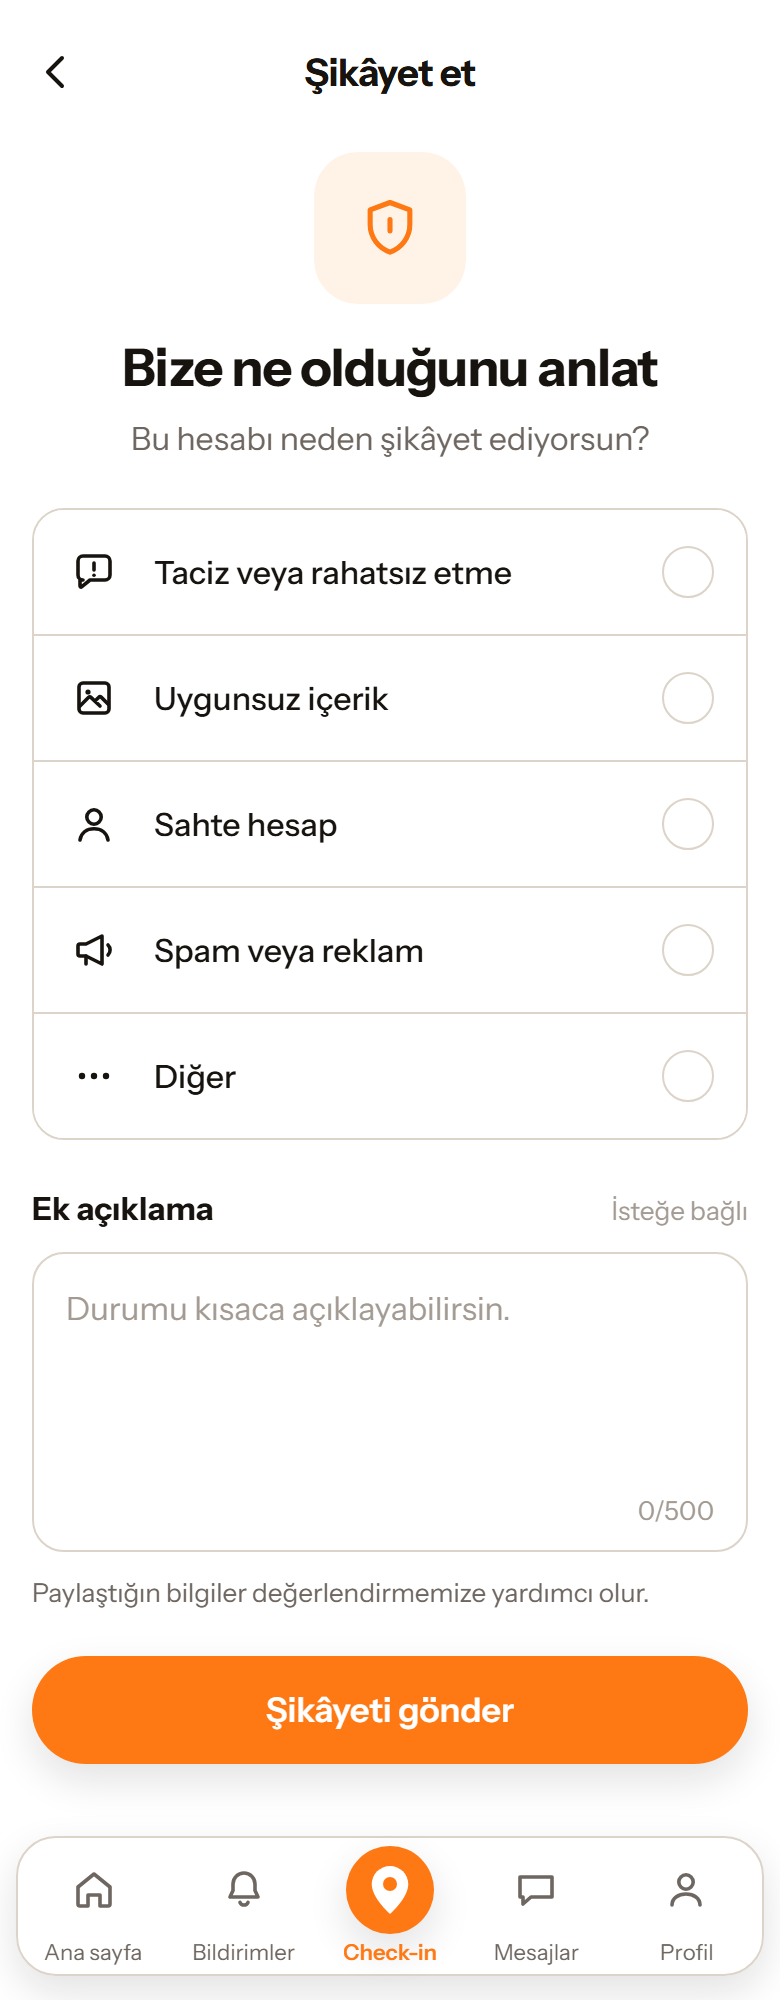
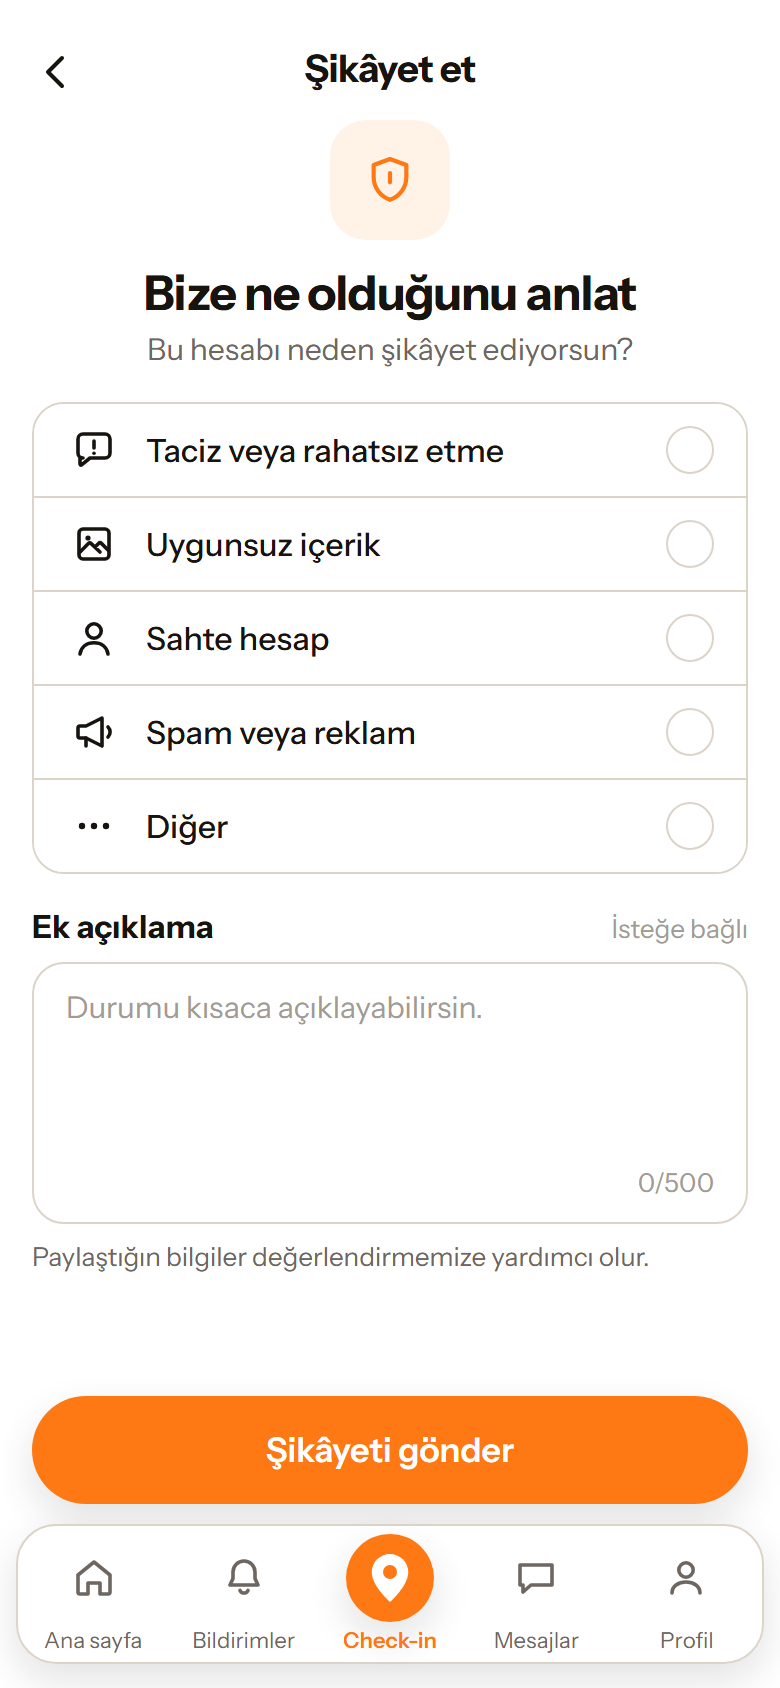
tasarim(sikayet): iki ekran kaydirmasiz - oldugu alana sigar (kullanicinin istegi); ekran-goruntusu araci SLOOIN_SAHTE_RPC
Claude-Session: https://claude.ai/code/session_01RjY8tEzWLikQVQRQ8oiY7b

diff --git a/mobil/src/app/sikayet.tsx b/mobil/src/app/sikayet.tsx
@@ -1,5 +1,5 @@
 import { useState, type ReactNode } from 'react'
-import { View, Text, TextInput, Pressable, ScrollView, StyleSheet } from 'react-native'
+import { View, Text, TextInput, Pressable, StyleSheet } from 'react-native'
 import { useRouter, useLocalSearchParams } from 'expo-router'
 import { useSafeAreaInsets } from 'react-native-safe-area-context'
 import { sikayetGonder, SIKAYET_SEBEPLERI, type SikayetHedefTuru } from '../../lib/sikayet'
@@ -117,9 +117,11 @@ export default function SikayetEkrani() {
           </Pressable>
         </View>
 
-        <ScrollView contentContainerStyle={stiller.teyitIcerik} showsVerticalScrollIndicator={false}>
+        {/* KAYDIRMASIZ (kullanicinin istegi 2026-09-18): rozet, metin ve
+            kart dikeyde ortalanir; Tamam altta, gezinme cubugunun ustunde. */}
+        <View style={stiller.teyitIcerik}>
           <View style={stiller.buyukRozet}>
-            <KalkanTikIkonu boyut={104} />
+            <KalkanTikIkonu boyut={84} />
           </View>
           <Text style={stiller.teyitBaslik}>{t('sikayet.alindi')}</Text>
           <Text style={stiller.teyitMetni}>{t('sikayet.tesekkur')}</Text>
@@ -154,11 +156,11 @@ export default function SikayetEkrani() {
           )}
 
           {hata && <Text style={stiller.hata}>{hata}</Text>}
-        </ScrollView>
+        </View>
 
-        <View style={[stiller.altButonAlani, { paddingBottom: Math.max(guvenliAlan.bottom, bosluk.l) }]}>
+        <View style={[stiller.altButonAlani, { paddingBottom: ALT_GEZINME_PAYI }]}>
           <Pressable
-            style={({ pressed }) => [stiller.birincil, pressed && stiller.birincilBasili]}
+            style={({ pressed }) => [stiller.birincil, stiller.birincilTeyit, pressed && stiller.birincilBasili]}
             onPress={() => router.back()}
             accessibilityRole="button"
             testID="sikayet-tamam"
@@ -209,13 +211,13 @@ export default function SikayetEkrani() {
         </Text>
       </View>
 
-      <ScrollView
-        contentContainerStyle={stiller.icerik}
-        keyboardShouldPersistTaps="handled"
-        showsVerticalScrollIndicator={false}
-      >
+      {/* KAYDIRMASIZ (kullanicinin istegi 2026-09-18: "asagi kaydirmaya
+          gerek kalmadan oldugu alana sigdir"): ScrollView yok; dikey
+          boslular sikilastirildi, aciklama kutusu kalan yeri dolduruyor
+          (flex), dugme en altta gezinme cubugunun ustunde. */}
+      <View style={stiller.icerik}>
         <View style={stiller.rozet}>
-          <KalkanIkonu boyut={34} />
+          <KalkanIkonu boyut={28} />
         </View>
         <Text style={stiller.kahramanBaslik}>{t('sikayet.kahramanBaslik')}</Text>
         <Text style={stiller.kahramanAlt}>
@@ -284,8 +286,9 @@ export default function SikayetEkrani() {
 
         {hata && <Text style={stiller.hata}>{hata}</Text>}
 
+        <View style={stiller.esnekBosluk} />
         <Pressable
-          style={({ pressed }) => [stiller.birincil, pressed && stiller.birincilBasili]}
+          style={({ pressed }) => [stiller.birincil, stiller.birincilAltta, pressed && stiller.birincilBasili]}
           onPress={gonder}
           disabled={gonderiliyor}
           accessibilityRole="button"
@@ -295,7 +298,7 @@ export default function SikayetEkrani() {
             {gonderiliyor ? t('ortak.gonderiliyor') : t('sikayet.gonder')}
           </Text>
         </Pressable>
-      </ScrollView>
+      </View>
     </View>
   )
 }
@@ -303,15 +306,17 @@ export default function SikayetEkrani() {
 const stilleriYap = (renk: Renk) => StyleSheet.create({
   kok: { flex: 1, backgroundColor: renk.zemin },
   icerik: {
+    flex: 1,
     paddingHorizontal: bosluk.sayfa,
     paddingBottom: ALT_GEZINME_PAYI,
   },
+  esnekBosluk: { flexGrow: 1, minHeight: bosluk.s },
+  birincilAltta: { marginTop: bosluk.m },
 
   // Ust cubuk: ok solda, baslik mutlak konumla ortada.
   ustCubuk: {
-    height: 48,
+    height: 44,
     justifyContent: 'center',
-    marginBottom: bosluk.s,
   },
   geriDugmesi: {
     position: 'absolute',
@@ -331,30 +336,30 @@ const stilleriYap = (renk: Renk) => StyleSheet.create({
   // Kahraman: rozet + baslik + alt baslik, ortali.
   rozet: {
     alignSelf: 'center',
-    width: 76,
-    height: 76,
-    borderRadius: 22,
+    width: 60,
+    height: 60,
+    borderRadius: 18,
     backgroundColor: renk.turuncuZemin,
     alignItems: 'center',
     justifyContent: 'center',
-    marginTop: bosluk.s,
-    marginBottom: bosluk.l,
+    marginTop: bosluk.xs,
+    marginBottom: bosluk.m,
   },
   kahramanBaslik: {
     textAlign: 'center',
     fontFamily: yazi.ekranBasligi,
-    fontSize: olcek.baslik,
+    fontSize: olcek.baslik - 2,
     color: renk.metin,
     letterSpacing: -0.5,
   },
   kahramanAlt: {
     textAlign: 'center',
     fontFamily: yazi.govde,
-    fontSize: olcek.govde + 1,
-    lineHeight: 22,
+    fontSize: olcek.govde,
+    lineHeight: 20,
     color: renk.metinIkincil,
-    marginTop: bosluk.s,
-    marginBottom: bosluk.xl,
+    marginTop: bosluk.xs,
+    marginBottom: bosluk.l,
   },
   baglamBildirimi: {
     textAlign: 'center',
@@ -362,8 +367,8 @@ const stilleriYap = (renk: Renk) => StyleSheet.create({
     fontSize: olcek.kucuk,
     lineHeight: 18,
     color: renk.metinIkincil,
-    marginTop: -bosluk.m,
-    marginBottom: bosluk.xl,
+    marginTop: -bosluk.s,
+    marginBottom: bosluk.l,
   },
 
   // Sebep karti: tek cerceve, satirlar ayirici cizgiyle.
@@ -377,9 +382,9 @@ const stilleriYap = (renk: Renk) => StyleSheet.create({
   sebepSatiri: {
     flexDirection: 'row',
     alignItems: 'center',
-    gap: bosluk.l,
+    gap: bosluk.m,
     paddingHorizontal: bosluk.l,
-    paddingVertical: 18,
+    paddingVertical: 11,
     backgroundColor: renk.yuzey,
   },
   sebepSatiriAyirici: { borderBottomWidth: 1, borderBottomColor: renk.cizgi },
@@ -394,9 +399,9 @@ const stilleriYap = (renk: Renk) => StyleSheet.create({
   // Radyo: bos halde ince gri halka; secili halde turuncu dolu, icinde
   // beyaz halka (referans).
   radyo: {
-    width: 26,
-    height: 26,
-    borderRadius: 13,
+    width: 24,
+    height: 24,
+    borderRadius: 12,
     borderWidth: 1.5,
     borderColor: renk.cizgi,
     alignItems: 'center',
@@ -404,9 +409,9 @@ const stilleriYap = (renk: Renk) => StyleSheet.create({
   },
   radyoSecili: { borderColor: renk.turuncu, backgroundColor: renk.turuncu },
   radyoIc: {
-    width: 20,
-    height: 20,
-    borderRadius: 10,
+    width: 18,
+    height: 18,
+    borderRadius: 9,
     borderWidth: 2.5,
     borderColor: '#FFFFFF',
   },
@@ -416,8 +421,8 @@ const stilleriYap = (renk: Renk) => StyleSheet.create({
     flexDirection: 'row',
     alignItems: 'baseline',
     justifyContent: 'space-between',
-    marginTop: bosluk.xl,
-    marginBottom: bosluk.m,
+    marginTop: bosluk.l,
+    marginBottom: bosluk.s,
   },
   etiket: {
     fontFamily: yazi.ekranBasligi,
@@ -434,19 +439,21 @@ const stilleriYap = (renk: Renk) => StyleSheet.create({
     borderColor: renk.cizgi,
     borderRadius: yuvarlak.kart,
     backgroundColor: renk.yuzey,
-    minHeight: 150,
+    // Kalan dikey alani kutu dolduruyor; en az iki satir.
+    flexGrow: 1,
+    flexShrink: 1,
+    minHeight: 72,
     paddingHorizontal: bosluk.l,
-    paddingTop: bosluk.l,
-    paddingBottom: 30,
+    paddingTop: bosluk.m,
+    paddingBottom: 26,
   },
   girdi: {
     flex: 1,
     fontFamily: yazi.govde,
-    fontSize: olcek.govde + 1,
-    lineHeight: 22,
+    fontSize: olcek.govde,
+    lineHeight: 20,
     color: renk.metin,
     padding: 0,
-    minHeight: 96,
   },
   sayac: {
     position: 'absolute',
@@ -460,14 +467,14 @@ const stilleriYap = (renk: Renk) => StyleSheet.create({
     fontFamily: yazi.govde,
     fontSize: olcek.kucuk,
     color: renk.metinIkincil,
-    marginTop: bosluk.m,
+    marginTop: bosluk.s,
   },
   hata: {
     fontFamily: yazi.govdeOrta,
     fontSize: olcek.kucuk,
     color: renk.yikici,
     textAlign: 'center',
-    marginTop: bosluk.l,
+    marginTop: bosluk.s,
   },
 
   // Birincil dugme (iki ekranda da ayni).
@@ -488,41 +495,42 @@ const stilleriYap = (renk: Renk) => StyleSheet.create({
 
   // 02 / Gonderim sonrasi
   kapatSatiri: {
-    height: 48,
+    height: 44,
     justifyContent: 'center',
     alignItems: 'flex-end',
     paddingHorizontal: bosluk.sayfa,
   },
   teyitIcerik: {
+    flex: 1,
     paddingHorizontal: bosluk.sayfa,
     alignItems: 'center',
-    paddingTop: bosluk.xxl,
-    paddingBottom: bosluk.xl,
+    justifyContent: 'center',
+    paddingBottom: bosluk.m,
   },
   buyukRozet: {
-    width: 190,
-    height: 190,
-    borderRadius: 95,
+    width: 150,
+    height: 150,
+    borderRadius: 75,
     backgroundColor: renk.turuncuZemin,
     alignItems: 'center',
     justifyContent: 'center',
-    marginBottom: bosluk.xxl,
+    marginBottom: bosluk.xl,
   },
   teyitBaslik: {
     textAlign: 'center',
     fontFamily: yazi.ekranBasligi,
-    fontSize: 30,
+    fontSize: 28,
     color: renk.metin,
     letterSpacing: -0.6,
-    marginBottom: bosluk.m,
+    marginBottom: bosluk.s,
   },
   teyitMetni: {
     textAlign: 'center',
     fontFamily: yazi.govde,
-    fontSize: olcek.govde + 1,
-    lineHeight: 24,
+    fontSize: olcek.govde,
+    lineHeight: 22,
     color: renk.metinIkincil,
-    marginBottom: bosluk.xxl,
+    marginBottom: bosluk.xl,
   },
   engelKarti: {
     alignSelf: 'stretch',
@@ -532,11 +540,11 @@ const stilleriYap = (renk: Renk) => StyleSheet.create({
     backgroundColor: renk.yuzey,
     padding: bosluk.l,
   },
-  engelUst: { flexDirection: 'row', gap: bosluk.l, marginBottom: bosluk.l },
+  engelUst: { flexDirection: 'row', gap: bosluk.m, marginBottom: bosluk.m },
   engelIkonDairesi: {
-    width: 64,
-    height: 64,
-    borderRadius: 32,
+    width: 56,
+    height: 56,
+    borderRadius: 28,
     backgroundColor: renk.karsilamaZemini,
     alignItems: 'center',
     justifyContent: 'center',
@@ -559,7 +567,7 @@ const stilleriYap = (renk: Renk) => StyleSheet.create({
     borderWidth: 1.5,
     borderColor: renk.turuncu,
     borderRadius: yuvarlak.hap,
-    paddingVertical: 15,
+    paddingVertical: 13,
     alignItems: 'center',
     backgroundColor: 'transparent',
   },
@@ -572,4 +580,5 @@ const stilleriYap = (renk: Renk) => StyleSheet.create({
   },
   cerceveliButonYaziPasif: { color: renk.metinSoluk },
   altButonAlani: { paddingHorizontal: bosluk.sayfa },
+  birincilTeyit: { marginTop: 0 },
 })

diff --git a/CLAUDE.md b/CLAUDE.md
@@ -194,9 +194,19 @@ kisi-yasak, carpi).
   parametresi.
 - Zemin BEYAZ (2026-08-27 karari; referansin kremi kanvas). Sozluk
   `sikayet` blogu 7 dilde bastan; `kullanici.sikayetEt` de "Sikâyet
-  et" (sapkali, referans yazimi). Ekran goruntusu
-  `tasarim/sikayet-01.png`. Jest 77 paket / 1038 test. Yayin: web
-  guncel, OTA grup `cb9c939a-68de-4e01-8819-fc1e97b74340`.
+  et" (sapkali, referans yazimi). Jest 77 paket / 1038 test.
+- **KAYDIRMASIZ (kullanicinin istegi, ayni gece):** iki ekranda da
+  ScrollView yok; 01'de rozet 60, satir dolgusu 11, aciklama kutusu
+  kalan yeri dolduruyor (flexGrow, minHeight 72), dugme en altta;
+  02'de icerik dikeyde ortali (rozet 150), Tamam altta. 390x844'te
+  ikisi de tasmadan siniyor: `tasarim/sikayet-01.png`, `sikayet-02.png`.
+  ARAC: `ekran-goruntusu.mjs` `SLOOIN_SAHTE_RPC=sikayet_gonder` ile o
+  RPC'yi (OPTIONS dahil) 200/null cevapliyor - yazan bir ekranin
+  "sonra" hali canli veriye dokunmadan cizdirilebiliyor. TUZAK: python
+  `http.server` SPA yolu (/sikayet) icin 404 verir; bu kez portta baska
+  bir sunucu oldugu icin daha once "calismis gibi" gorunmustu. SPA
+  geri donuslu kucuk node sunucusu gerekiyor (scratchpad'de yazildi).
+  Yayin: web guncel, OTA grup `2d6f28d0-ccdd-4acd-b359-1943e871c503`.
 
 ### ACIK PROFILDE DOGRUDAN ARKADAS, "ARKADASSIN" TIKLI; IKI CANLI HATA - 2026-09-18 GECE
 
